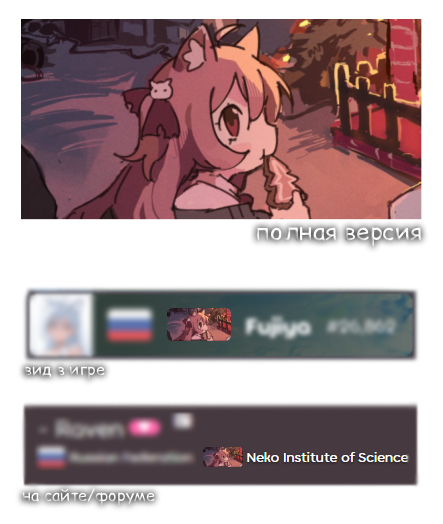
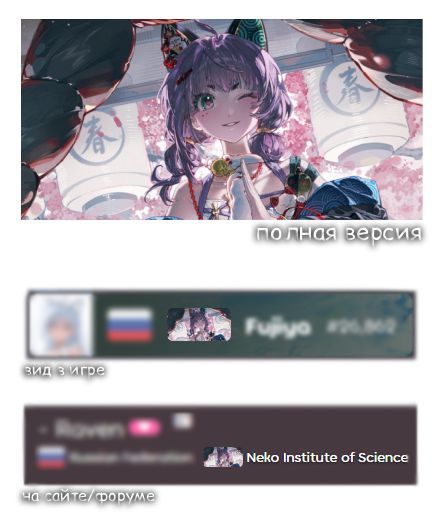
vote update

diff --git a/web/src/templates/vote_home.html b/web/src/templates/vote_home.html
@@ -10,12 +10,12 @@
 <body>
     <div class="container">
         <h1>Голосование</h1>
-        <h1>за зимний флаг команды</h1>
+        <h1>за весенний флаг команды</h1>
         <p>⚠ Возможно ты захочешь перепройти его ⚠</p>
         <p>в конце будет кнопка, чтобы начать заново</p>
         <p>удачи короче</p>
         <div class="vote-buttons">
-            <!-- <a href="/vote/auth" class="vote-link">Проголосовать</a> -->
+            <a href="/vote/auth" class="vote-link">Проголосовать</a>
             <a href="/vote/results" class="vote-link">Результаты</a>
         </div>
   </div>

diff --git a/web/src/static/js/vote-now.js b/web/src/static/js/vote-now.js
@@ -11,9 +11,6 @@ document.addEventListener("DOMContentLoaded", () => {
         "/static/images/9.jpg",
         "/static/images/10.jpg",
         "/static/images/11.jpg",
-        "/static/images/12.jpg",
-        "/static/images/13.jpg",
-        "/static/images/14.jpg" 
     ];
 
     let currentIndex = 0;

diff --git a/web/src/routers/vote_for_images.py b/web/src/routers/vote_for_images.py
@@ -92,7 +92,7 @@ async def submit_votes(payload: str = Form(...)):
     votes = data["votes"]
 
     # Не принимать голоса больше
-    return
+    # return
 
     await insert_to_file_neko(file_d, {
         username: {
